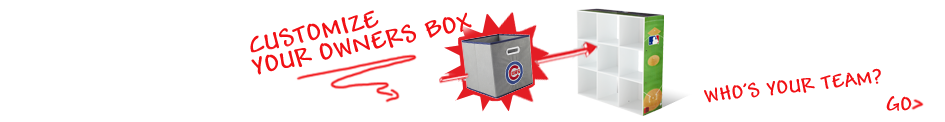
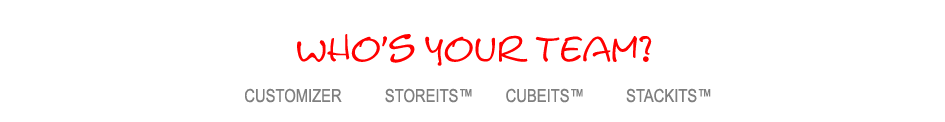
New Files for 11/26/12

Changed region(s): [[0.2455, 0.0738, 0.9513, 0.959], [0.9206, 0.7869, 0.982, 0.9098]]

diff --git a/index.html b/index.html
@@ -317,7 +317,7 @@ executed onComplete because in onInit the cat page content still loads below it.
 <div id='mastHead' class='noPrint'>
 	<div class='pointer' onClick="showContent('category',{'navcat':'.'});" id='logo'><img src='images/blank.gif' width='210' height='155' alt='MyOwnersBox' class='logo' /></div>
 	<div class='mlbLogo'><img src='images/mob_mlblogo-60x30.png' width='60' height='30' alt='mlb' /></div>
-	<div class='topBanner pointer' onClick="$('#promotionDescription').dialog({width:500,height:500,autoOpen:false}); $('#promotionDescription').dialog('open');"><img src='images/mbo_top-970x60.png' width='970' height="60" alt='' /></div>
+	<div class='topBanner pointer' onClick="$('#promotionDescription').dialog({width:500,height:500,autoOpen:false}); $('#promotionDescription').dialog('open');"><img src='images/mbo_top2-970x60.png' width='970' height="60" alt='' /></div>
 
 <!--
 headerBanner and headerCategories are both hidden by default. showPage handles which is displayed.
@@ -325,11 +325,11 @@ both are hidden to avoid popping
 -->
 	<div class='customizeBanner displayNone' id='headerBanner'>
 	<a href='#' onClick="myControl.ext.mob_customizer.actions.initConfigurator(); return false;">
-	<img src='images/mob_customizebanner4-945x122.png' width="945" height="122" alt="" />	</a>	</div>
+	<img src='images/mob_customizebanner8-945x122.png' width="945" height="122" alt="" />	</a>	</div>
 
 
 	<div class='topCats displayNone' id='headerCategories'>
-	<img src='images/mob_menu-639x27.png' width="639" height="27" alt="" usemap="#catMap" />	</div>
+	<img src='images/mob_menu2-639x27.png' width="639" height="27" alt="" usemap="#catMap" />	</div>
 
 
 	<div class='decalLeft'>
@@ -687,7 +687,7 @@ remember to NOT put the button inside the 'onclick' container or two events will
 
 
 <div id='homepageTemplate'>
-<img src='images/mob_homemap11-951x421.jpg' width='951' height='421' border="0" usemap="#homeMap" />
+<img src='images/mob_homemap13-951x369.jpg' width='951' height='369' border="0" usemap="#homeMap" />
 
 <div class='homeDesc' data-bind="var: page(description); format:wiki;"></div>
 
